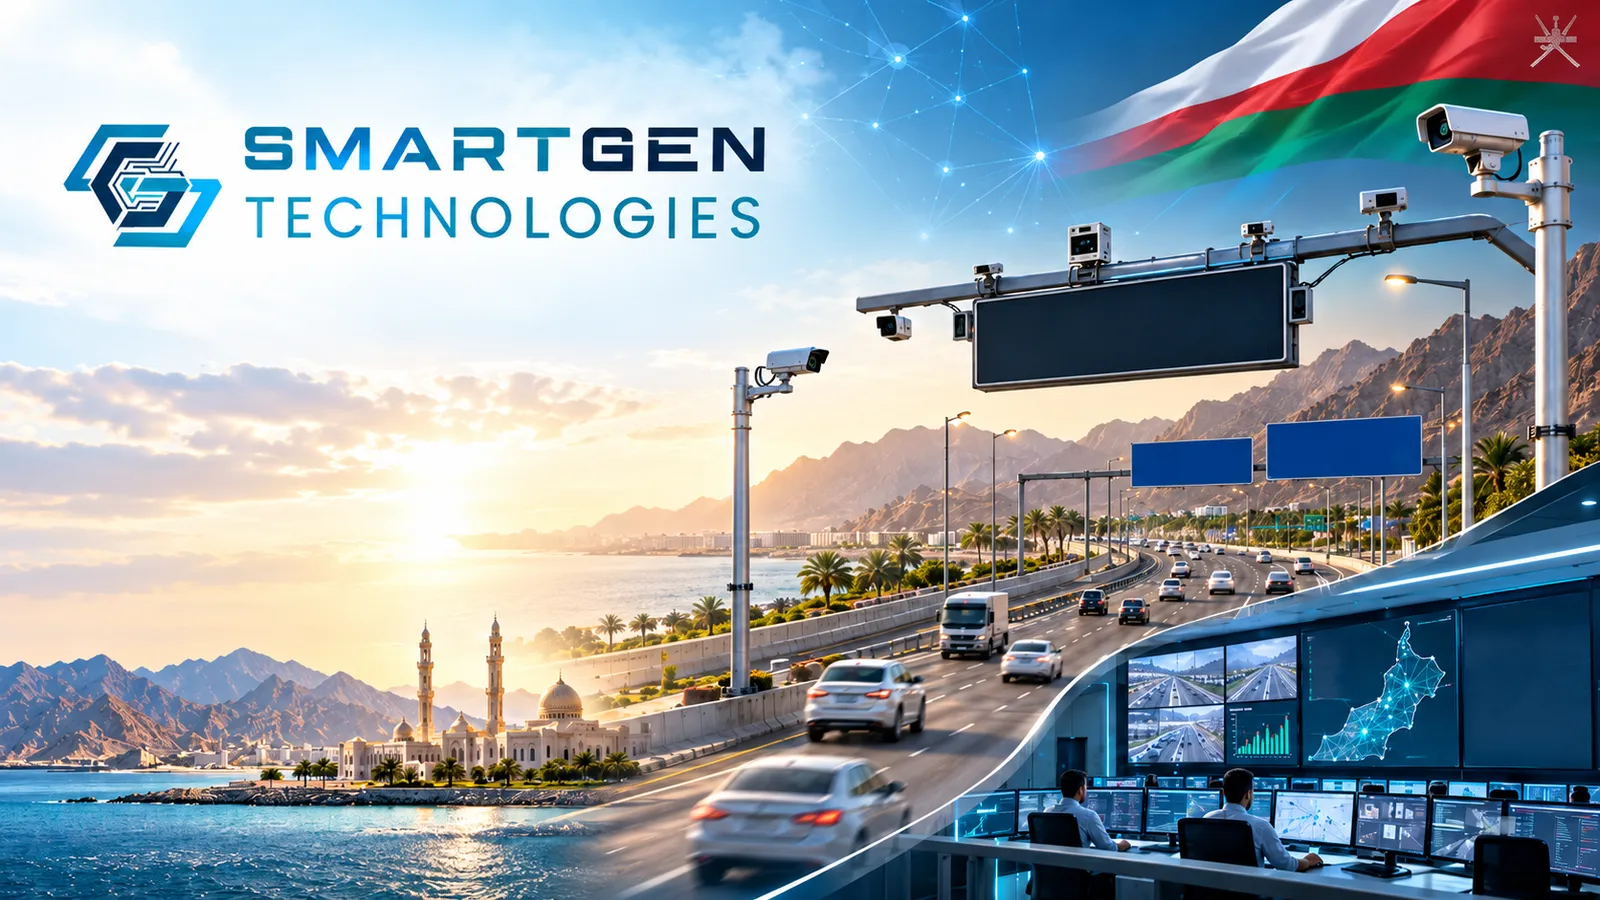
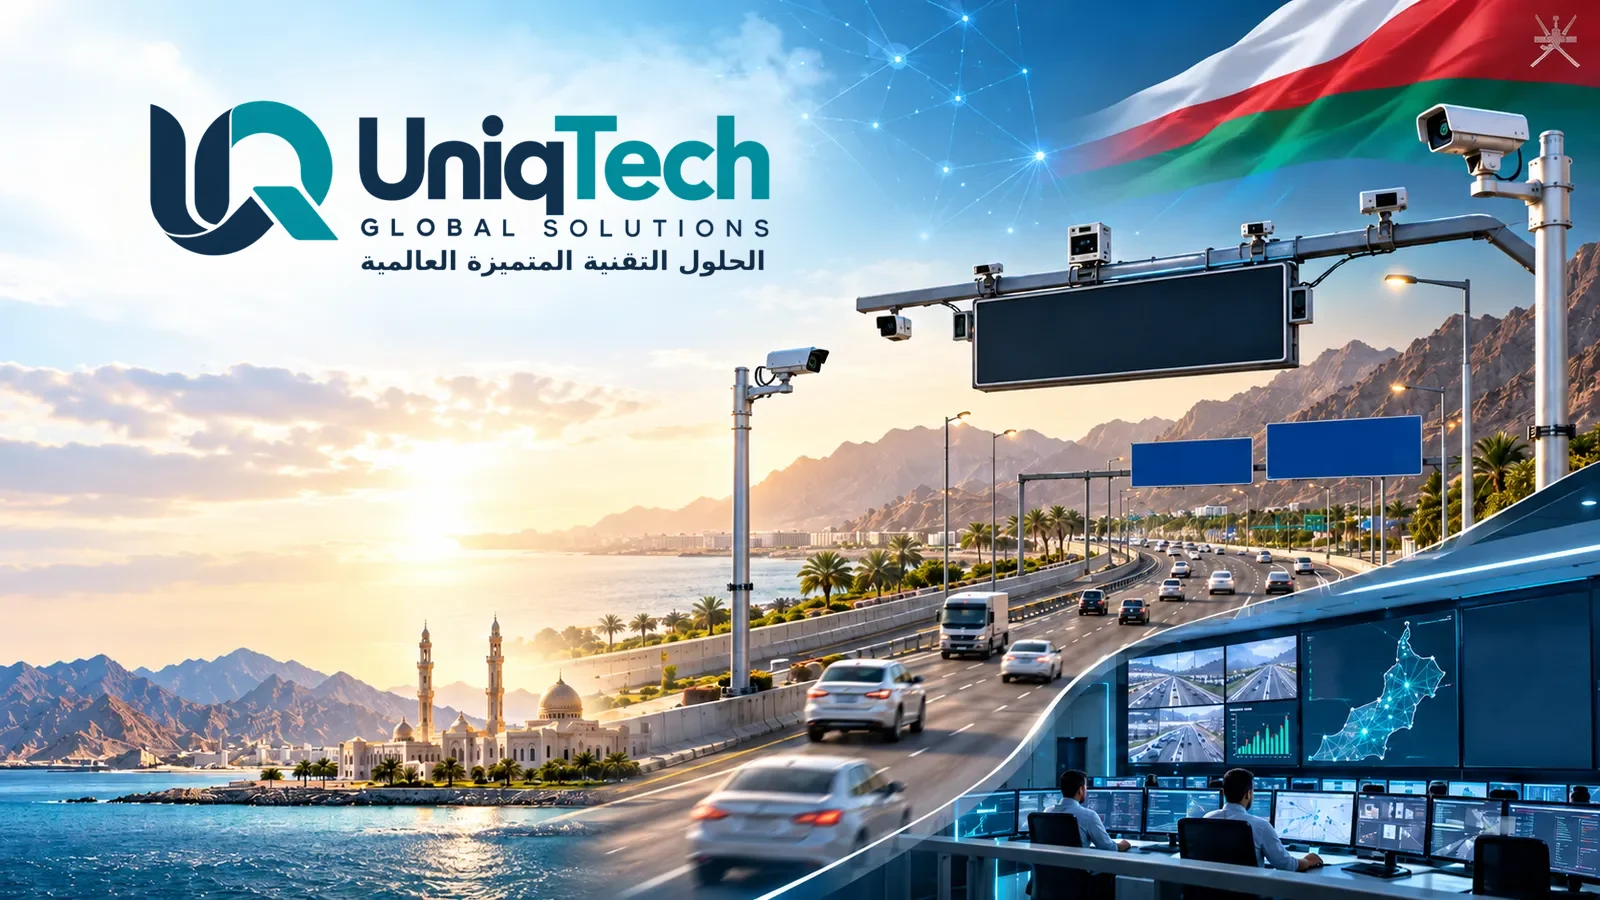
changes

Changed region(s): [[0.0312, 0.0933, 0.5, 0.3111]]

diff --git a/app/components/landing/LandingServices.vue b/app/components/landing/LandingServices.vue
@@ -9,16 +9,6 @@ const proof = computed(() => projects.find(p => p.service === active.value.id))
 
 const tabRefs = ref<HTMLButtonElement[]>([])
 
-// On small screens the list scrolls sideways: keep the selected service in view,
-// including when it was chosen from the hero or footer links.
-watch(activeService, (id) => {
-  const tab = tabRefs.value[services.findIndex(s => s.id === id)]
-  const list = tab?.parentElement
-  if (!tab || !list || list.scrollWidth <= list.clientWidth) return
-  const left = list.scrollLeft + tab.getBoundingClientRect().left - list.getBoundingClientRect().left - 12
-  list.scrollTo({ left, behavior: 'smooth' })
-}, { flush: 'post' })
-
 // Arrow keys move between tabs (WAI-ARIA tabs pattern, automatic activation)
 function onKeydown(event: KeyboardEvent, index: number) {
   const keys: Record<string, number> = {
@@ -62,13 +52,14 @@ function discuss() {
 
       <div class="mt-12 overflow-hidden rounded-3xl border border-navy-800/10 bg-white lg:grid lg:grid-cols-[minmax(0,23rem)_1fr]">
         <!-- Service list. Every service is drawn as a card so it is clear they are all clickable;
-             the selected one gets a teal outline and side bar rather than a heavy fill. -->
-        <div class="border-b border-navy-800/10 bg-paper/60 p-3 lg:border-r lg:border-b-0">
+             the selected one gets a teal outline and side bar rather than a heavy fill.
+             Phones and tablets: all five side by side as compact icon tiles (no sideways scrolling).
+             Desktop: a vertical list with full names and taglines. -->
+        <div class="border-b border-navy-800/10 bg-paper/60 p-2 sm:p-3 lg:border-r lg:border-b-0">
           <div
             role="tablist"
             aria-label="Services"
-            aria-orientation="vertical"
-            class="flex snap-x gap-2 overflow-x-auto pb-1 lg:flex-col lg:overflow-visible lg:pb-0"
+            class="grid grid-cols-5 gap-1.5 sm:gap-2 lg:grid-cols-1"
           >
             <button
               v-for="(service, index) in services"
@@ -77,10 +68,11 @@ function discuss() {
               ref="tabRefs"
               type="button"
               role="tab"
+              :aria-label="service.name"
               :aria-selected="service.id === active.id"
               :aria-controls="`panel-${service.id}`"
               :tabindex="service.id === active.id ? 0 : -1"
-              class="group relative flex w-64 shrink-0 snap-start items-start gap-3 overflow-hidden rounded-2xl border bg-white p-4 text-left text-navy-800 transition lg:w-auto"
+              class="group relative flex min-w-0 flex-col items-center gap-1.5 overflow-hidden rounded-xl border bg-white px-0.5 py-3 text-center text-navy-800 transition sm:rounded-2xl sm:py-4 lg:flex-row lg:items-start lg:gap-3 lg:p-4 lg:text-left"
               :class="service.id === active.id
                 ? 'border-uq-500 shadow-md shadow-uq-500/10 ring-1 ring-uq-500'
                 : 'border-navy-800/10 hover:border-uq-300 hover:shadow-sm'"
@@ -88,12 +80,18 @@ function discuss() {
               @keydown="onKeydown($event, index)"
             >
               <span
-                class="absolute inset-y-0 left-0 w-1 transition-colors"
+                class="absolute inset-y-0 left-0 hidden w-1 transition-colors lg:block"
                 :class="service.id === active.id ? 'bg-uq-500' : 'bg-transparent'"
                 aria-hidden="true"
               />
+              <!-- Featured marker on the small tiles, where the "Featured" badge doesn't fit -->
               <span
-                class="mt-0.5 flex size-9 shrink-0 items-center justify-center rounded-xl transition-colors"
+                v-if="service.featured"
+                class="absolute top-1.5 right-1.5 size-1.5 rounded-full bg-uq-500 lg:hidden"
+                aria-hidden="true"
+              />
+              <span
+                class="flex size-9 shrink-0 items-center justify-center rounded-xl transition-colors lg:mt-0.5"
                 :class="service.id === active.id ? 'bg-uq-500 text-white' : 'bg-uq-50 text-uq-600 group-hover:bg-uq-100'"
               >
                 <UIcon
@@ -101,7 +99,14 @@ function discuss() {
                   class="size-5"
                 />
               </span>
-              <span class="min-w-0 flex-1">
+              <span
+                class="text-[0.6875rem] leading-tight font-medium text-navy-900 sm:text-xs lg:hidden"
+                aria-hidden="true"
+              >{{ service.shortName }}</span>
+              <span
+                class="hidden min-w-0 flex-1 lg:block"
+                aria-hidden="true"
+              >
                 <span class="block font-display leading-snug font-medium text-navy-900">{{ service.name }}</span>
                 <span
                   v-if="service.featured"

diff --git a/app/data/landing.ts b/app/data/landing.ts
@@ -57,7 +57,7 @@ export const services: Service[] = [
     shortName: 'Waste',
     tagline: 'Smart bins that report when they are full',
     // Copy from SmartGen's Smart Bins solution page (smartgentech.net)
-    summary: 'SmartGen Smart Bins combine IoT sensors, GPS and AI to monitor waste levels in real time, so collection follows actual need instead of a fixed timetable.',
+    summary: 'UniqTech Smart Bins combine IoT sensors, GPS and AI to monitor waste levels in real time, so collection follows actual need instead of a fixed timetable.',
     points: [
       'IoT fill-level sensors with instant alerts',
       'Every bin on a live GIS map',
@@ -159,14 +159,14 @@ export const partners = {
 // lead: who leads the stage (shown as a small chip). Keep each text to one short line.
 export const processIntro = {
   title: 'From first site visit to long-term support',
-  text: 'UniqTech leads on the ground. SmartGen engineers the technology.'
+  text: 'UniqTech leads every stage, from the ground work to the technology.'
 }
 
 export const process: { title: string, text: string, lead: 'uniqtech' | 'smartgen' | 'both' }[] = [
   { title: 'Assess', text: 'We survey your sites and existing systems.', lead: 'uniqtech' },
-  { title: 'Design', text: 'SmartGen selects the hardware and software.', lead: 'smartgen' },
-  { title: 'Pilot', text: 'We prove it in one area first.', lead: 'both' },
-  { title: 'Deploy', text: 'We install, connect and train your team.', lead: 'both' },
+  { title: 'Design', text: 'UniqTech selects the hardware and software.', lead: 'uniqtech' },
+  { title: 'Pilot', text: 'We prove it in one area first.', lead: 'uniqtech' },
+  { title: 'Deploy', text: 'We install, connect and train your team.', lead: 'uniqtech' },
   { title: 'Support', text: 'We maintain, monitor and grow with you.', lead: 'uniqtech' }
 ]
 
@@ -198,10 +198,10 @@ export const teamwork = {
   title: 'One team, on site',
   text: 'Our engineers work side by side with your people, from the first survey to the day the system goes live.',
   image: '/images/team-field.webp',
-  imageAlt: 'The UniqTech and SmartGen team together at a toll facility',
+  imageAlt: 'The UniqTech team together at a toll facility',
   caption: { title: 'Our team in the field', text: 'Working together, on site' },
   points: [
-    { icon: 'i-lucide-users', title: 'Joint project team', text: 'UniqTech and SmartGen staff on every deployment.' },
+    { icon: 'i-lucide-users', title: 'Dedicated project team', text: 'UniqTech staff on every deployment.' },
     { icon: 'i-lucide-hard-hat', title: 'Hands-on installation', text: 'We install, test and commission on site.' },
     { icon: 'i-lucide-graduation-cap', title: 'Training for your staff', text: 'Your team learns to run the system before handover.' }
   ]
@@ -209,8 +209,6 @@ export const teamwork = {
 
 // Trusted partners strip. Logos copied from the SmartGenTech staging site.
 export const trustedPartners = [
-  { name: 'Oman Energy Association', logo: '/images/partners/opal.webp' },
-  { name: 'Logistics Sector Skills Unit', logo: '/images/partners/ola.webp' },
   { name: 'GreenBatt', logo: '/images/partners/greenbatt.webp' },
   { name: 'Factual', logo: '/images/partners/factual.webp' },
   { name: 'Vitronic', logo: '/images/partners/vitronic.webp' },

diff --git a/app/components/SiteFooter.vue b/app/components/SiteFooter.vue
@@ -24,18 +24,27 @@ function showService(id: string) {
           class="h-14 w-auto"
         >
         <p class="mt-6 max-w-sm leading-relaxed">
-          Intelligent transport, energy and waste solutions, delivered in partnership with SmartGen Technologies.
+          Intelligent transport, energy and waste solutions, delivered by UniqTech Global Solutions.
         </p>
         <div class="mt-6 flex items-center gap-3 text-sm">
           <span>In partnership with</span>
-          <img
-            src="/images/logos/smartgen.webp"
-            alt="SmartGen Technologies"
-            width="1024"
-            height="307"
-            loading="lazy"
-            class="h-7 w-auto brightness-0 invert"
+          <!-- White logo that turns to its brand colours on hover (smartgen.webp is the dark-background version) -->
+          <a
+            href="https://smartgentech.net/"
+            target="_blank"
+            rel="noopener"
+            aria-label="SmartGen Technologies (opens in a new tab)"
+            class="group -m-1.5 rounded-lg p-1.5 transition-colors hover:bg-white/5 focus-visible:outline-2 focus-visible:outline-uq-300"
           >
+            <img
+              src="/images/logos/smartgen.webp"
+              alt="SmartGen Technologies"
+              width="1024"
+              height="307"
+              loading="lazy"
+              class="h-7 w-auto brightness-0 invert transition duration-300 group-hover:scale-105 group-hover:brightness-100 group-hover:invert-0 group-focus-visible:brightness-100 group-focus-visible:invert-0"
+            >
+          </a>
         </div>
       </div>
 

diff --git a/app/components/landing/LandingTrustedPartners.vue b/app/components/landing/LandingTrustedPartners.vue
@@ -1,8 +1,5 @@
 <script setup lang="ts">
 import { partners, trustedPartners } from '~/data/landing'
-
-// Split into rows of four so a divider can sit between rows, as in the design
-const rows = [trustedPartners.slice(0, 4), trustedPartners.slice(4)]
 </script>
 
 <template>
@@ -43,18 +40,15 @@ const rows = [trustedPartners.slice(0, 4), trustedPartners.slice(4)]
         </div>
       </div>
 
-      <!-- Other partners -->
-      <div class="mt-6">
-        <ul
-          v-for="(row, i) in rows"
-          :key="i"
-          class="grid grid-cols-2 gap-x-6 sm:grid-cols-4"
-          :class="i > 0 ? 'border-t border-navy-800/10' : ''"
-        >
+      <!-- Other partners: 2 per row on phones, 3 per row from tablets up.
+           Every logo has a top border and the list is pulled up 1px under a clipping wrapper,
+           so the first row's borders are hidden and a line shows only between rows. -->
+      <div class="mt-6 overflow-hidden">
+        <ul class="-mt-px grid grid-cols-2 sm:grid-cols-3">
           <li
-            v-for="partner in row"
+            v-for="partner in trustedPartners"
             :key="partner.name"
-            class="flex h-28 items-center justify-center px-2 sm:h-36"
+            class="flex h-28 items-center justify-center border-t border-navy-800/10 px-5 sm:h-36 sm:px-8"
           >
             <img
               :src="partner.logo"

diff --git a/app/app.vue b/app/app.vue
@@ -2,8 +2,8 @@
 import { contact } from '~/data/landing'
 
 // ---- SEO and share previews (Google, WhatsApp, LinkedIn, Facebook, X) ----
-const title = 'UniqTech × SmartGen | Smart City Solutions in Oman'
-const description = 'UniqTech Global Solutions and SmartGen Technologies deliver intelligent transport, smart energy, smart waste, fleet management and software solutions in Oman.'
+const title = 'UniqTech Global Solutions | Smart City Solutions in Oman'
+const description = 'UniqTech Global Solutions delivers intelligent transport, smart energy, smart waste, fleet management and software solutions in Oman.'
 
 // Share apps need absolute URLs. Prefer the configured live address, else the address this page was requested on.
 const { siteUrl } = useRuntimeConfig().public

diff --git a/app/components/landing/LandingProjects.vue b/app/components/landing/LandingProjects.vue
@@ -19,7 +19,7 @@ const [featured, ...rest] = projects
           Already running across the region
         </h2>
         <p class="mt-4 text-lg leading-relaxed text-navy-800/80">
-          SmartGen technology is in daily use on roads, toll networks and power sites. These are some of the projects behind it.
+          UniqTech Global Solutions systems are in daily use on roads, toll networks and power sites. These are some of the projects behind it.
         </p>
       </div>
 

diff --git a/app/components/ContactModal.vue b/app/components/ContactModal.vue
@@ -50,7 +50,7 @@ watch(open, (isOpen) => {
 
           <div class="relative px-8 pt-2 pb-8">
             <p class="text-xs font-semibold tracking-[0.2em] text-uq-300 uppercase">
-              UniqTech × SmartGen
+              UniqTech Global Solutions
             </p>
             <p class="mt-3 heading-card">
               One team, from survey to go-live
